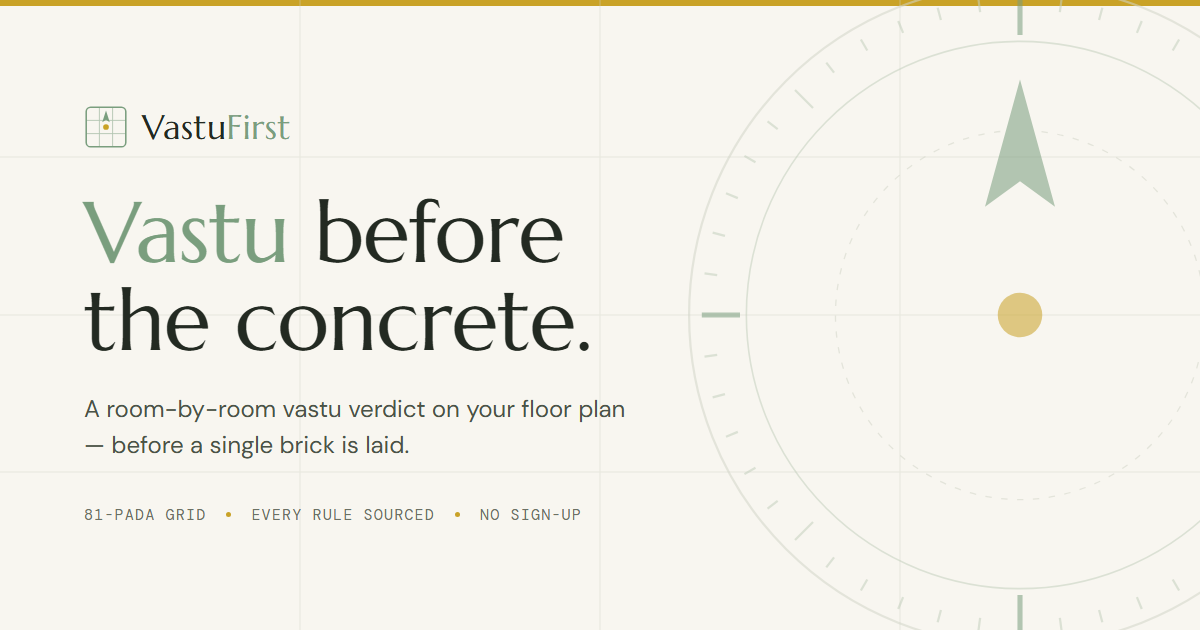
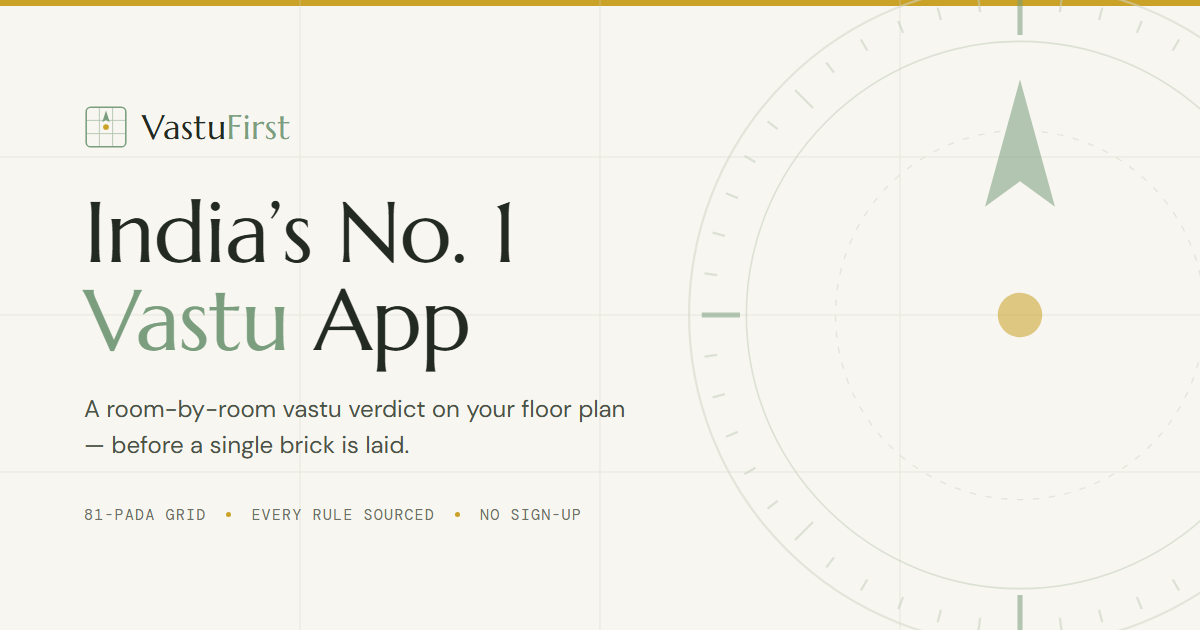
Put "India's No. 1 Vastu App" back as the headline
The owner's call, made on 20 August 2026. The headline had been changed to
"Vastu before the concrete." by an earlier audit for two reasons that have not
gone away: the app is pre-launch with no users, and the product document names
three competitors and says plainly that we are not first; and an unsubstantiated
"No. 1" is a claim the Advertising Standards Council of India can be asked to
rule on. Both are now written down under "Still open" in the README instead of
being an unexplained departure, so nobody re-argues it from scratch.

Changed in both places the headline lives, because a headline fixed in one is a
headline that drifts: the hero on the page, and the social share card that
WhatsApp and X show when the link is pasted. The share card PNG is regenerated
and committed with it.

Verified: the headline wraps to two lines at every width from 320px to 1920px,
and at the tightest it still ends 38px clear of the right edge. 100 screenshots
across 10 viewports, no horizontal overflow. check-headers and smoke green
locally and against the live site.

Changed region(s): [[0.0617, 0.4524, 0.4933, 0.6032], [0.0617, 0.3016, 0.4933, 0.4222]]

diff --git a/tools/og-source.html b/tools/og-source.html
@@ -87,7 +87,7 @@
       <span class="wordmark">Vastu<em>First</em></span>
     </div>
 
-    <h1><em>Vastu</em> before<br>the concrete.</h1>
+    <h1>India&rsquo;s No. 1<br><em>Vastu</em> App</h1>
     <p>A room-by-room vastu verdict on your floor plan — before a single brick is laid.</p>
 
     <div class="meta">

diff --git a/README.md b/README.md
@@ -135,7 +135,6 @@ is a deliberate change and each is reversible in one line.
 
 | The handoff said | The site says | Why |
 |---|---|---|
-| Headline **"India's No. 1 Vastu App"** | **"Vastu before the concrete."** | The app is pre-launch with no users, and the product document names three competitors and states plainly that we are not first. An unsubstantiated "No. 1" is also an ASCI advertising problem in India. |
 | **"Six languages"** card, and a marquee of the tagline in six Indian scripts | **"Nothing to sign up for"**, and a marquee of the nine Sanskrit zone names | The app is English only, permanently — a decision, not a phase. Nothing may imply another language is coming. The same rule explicitly protects the Sanskrit and Vastu vocabulary, so the band keeps its motion and its Devanagari. |
 | **"16-zone analysis"** and **"16-zone precision"** | **"81-pada grid"** and **"The square grid, not pie slices"** | The engine scores on the 81-pada square grid. The 16-zone angular model is a separate, incompatible geometry that is not shipped and is gated on an unresolved review question. |
 | **"Consultant-reviewed rules"** | **"Every rule sourced"** | The disputed rulings are our own most-attested reading, waiting for an expert to overturn any of them. Calling them consultant-reviewed today would not be true. |
@@ -156,3 +155,10 @@ to be visible rather than buried.
   `src/components/LogoMark.astro` and re-run `node tools/make-images.mjs` — the nav, the footer, the
   share card and the touch icon all read from that one file.
 - **No price is quoted** anywhere on the site.
+- The headline reads **"India's No. 1 Vastu App"**, restored on the owner's instruction on
+  20 August 2026 after a spell as "Vastu before the concrete." Two things are on the record and
+  neither is settled: the app is pre-launch with no users, and the product document names three
+  competitors and says plainly that we are not first; and an unsubstantiated "No. 1" is a claim the
+  Advertising Standards Council of India can be asked to rule on. It is the owner's call and it is
+  reversible in one line, in two files — `src/components/Hero.astro` and `tools/og-source.html`,
+  the second followed by `node tools/make-images.mjs`.
